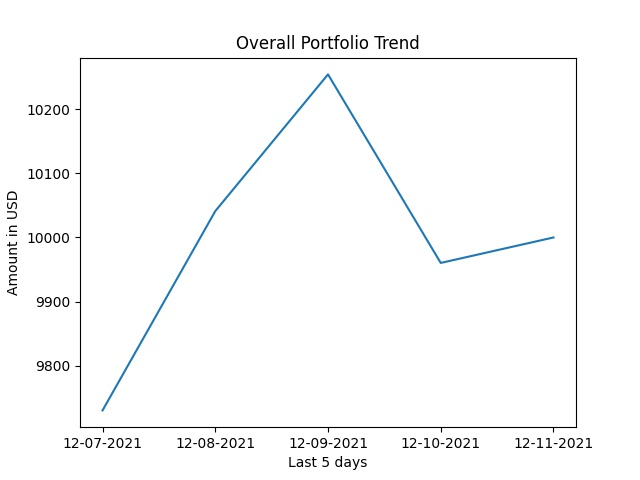
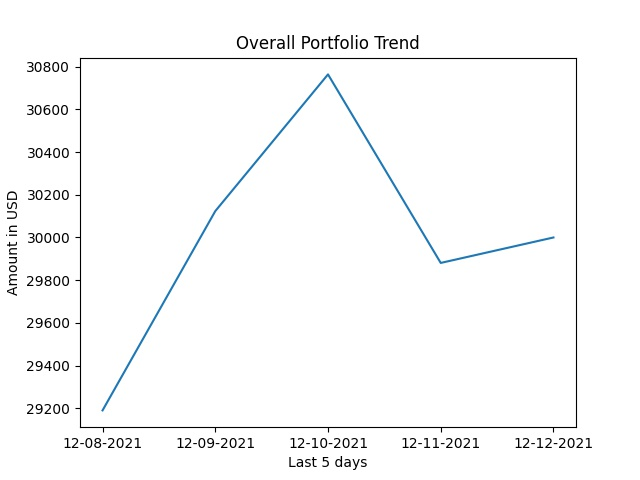
fixed graph issue for 2 investment strategy

diff --git a/templates/two_strategies.html b/templates/two_strategies.html
@@ -50,7 +50,7 @@
                 <center>Current value of 1 share of {{ stock8 }} is {{stock8_price }}</center><br />
                 <center>Invested money in {{ stock8 }} is {{ stock8_money }} </center> <br />
             </p>
-            <center><img src="../two_investment-strategy.jpeg" /> </center> <br />
+            <center><img src={{ url}} alt="Image not found"/> </center> <br />
 
 
         </h2>

diff --git a/app.py b/app.py
@@ -57,7 +57,7 @@ def one_investment_strategy(data, amount, strategy):
     print(dates)
     print(total_portfolio)
     print(current_value_of_investment)
-    
+    plt.clf()
     plt.plot(dates, total_portfolio)
     plt.xlabel("Last 5 days")
     plt.ylabel("Amount in USD")
@@ -126,7 +126,7 @@ def two_investment_strategy(data, amount, strategy1, strategy2):
     print(dates)
     print(total_portfolio)
     print(current_value_of_investment)
-    
+    plt.clf()
     plt.plot(dates, total_portfolio)
     plt.xlabel("Last 5 days")
     plt.ylabel("Amount in USD")
